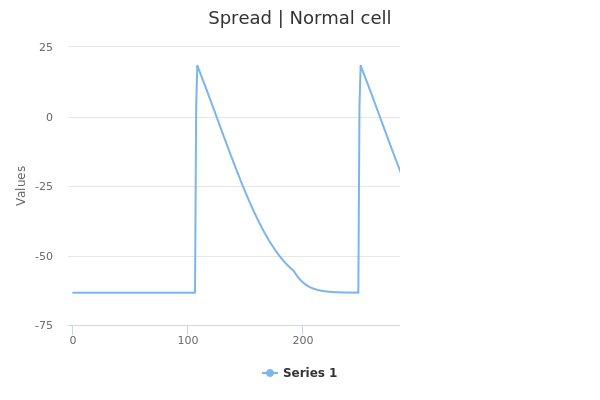
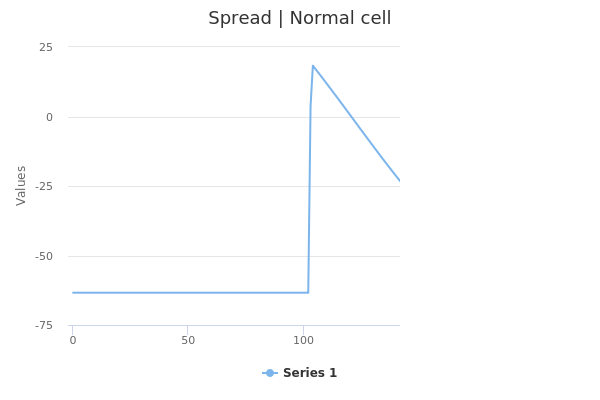
get set server graph on click

diff --git a/dist/index.html b/dist/index.html
@@ -1,136 +1,175 @@
 <!doctype html>
 <html>
-  <head>
-    <title>Getting Started</title>
-    <meta name="viewport" content="width=device-width, initial-scale=1">
-    <link rel="stylesheet" href="https://stackpath.bootstrapcdn.com/bootstrap/4.3.1/css/bootstrap.min.css" integrity="sha384-ggOyR0iXCbMQv3Xipma34MD+dH/1fQ784/j6cY/iJTQUOhcWr7x9JvoRxT2MZw1T" crossorigin="anonymous">
-    <style>
 
-      body{
-        background-color: #EEEEEE;
-        overflow: hidden;
+<head>
+  <title>Getting Started</title>
+  <meta name="viewport" content="width=device-width, initial-scale=1">
+  <link rel="stylesheet" href="https://stackpath.bootstrapcdn.com/bootstrap/4.3.1/css/bootstrap.min.css"
+    integrity="sha384-ggOyR0iXCbMQv3Xipma34MD+dH/1fQ784/j6cY/iJTQUOhcWr7x9JvoRxT2MZw1T" crossorigin="anonymous">
+  <style>
+    body {
+      background-color: #EEEEEE;
+      overflow: hidden;
+    }
+
+    #bottons {
+      position: absolute;
+      left: 3%;
+      top: 90%
+    }
+
+    .card-footer {
+      padding-bottom: 0px;
+    }
+
+    @media (max-width: 500px) {
+      #chart {
+        width: 100%;
       }
 
-      #bottons {
-        position:absolute;
-        left: 3%;
-        top: 90%
+      .card-body {
+        padding: 0rem !important;
       }
-      .card-footer{
-        padding-bottom: 0px;
+
+      .card {
+        width: 95%;
       }
-      @media (max-width: 500px) {
-        #chart{
-          width: 100%;
-        }
+    }
 
-        .card-body {
-          padding: 0rem !important;
-        }
-        .card{
-          width:95%;
-        }
-      } 
-      @media (max-width: 767.98px) { 
-        #cells-btns {
-          padding-top: 10px;
-        }
+    @media (max-width: 767.98px) {
+      #cells-btns {
+        padding-top: 10px;
       }
-    </style>
-  </head>
-  <body>
-    <!-- Image and text -->
-    <nav class="navbar navbar-light" >
-      <a class="navbar-brand" href="#">
-        <img src="https://w0.pngwave.com/png/539/297/graphics-pixel-8-bit-color-8bit-heart-png-clip-art.png" width="50" height="35" class="d-inline-block align-top">
-        Tissiue simulator
-      </a>
-    </nav>
+    }
+  </style>
+</head>
 
-    <div class="container-fluid">
-      <div class="row justify-content-center">
-        <div class="card shadow rounded">
-          <div class="card-body">
-            <div id="chart"></div>
-          </div>
+<body>
+  <!-- Image and text -->
+  <nav class="navbar navbar-light">
+    <a class="navbar-brand" href="#">
+      <img src="https://w0.pngwave.com/png/539/297/graphics-pixel-8-bit-color-8bit-heart-png-clip-art.png" width="50"
+        height="35" class="d-inline-block align-top">
+      Tissiue simulator
+    </a>
+  </nav>
 
-          <div class="card-footer bg-transparent">
+  <div class="container-fluid">
+    <div class="row justify-content-center">
+      <div class="card shadow rounded">
+        <div class="card-body">
+          <div id="chart"></div>
+        </div>
 
-              <div class="row justify-content-between mx-2 mb-2">
-                <div class="col-11">
-                  <button id="play" type="button" class="btn btn-primary pause"> <img src="https://img.icons8.com/material-rounded/24/000000/play.png"/></button>  
-                  <button id="stop" type="button" class="btn btn-danger mr-3 stop"> <img src="https://img.icons8.com/material/24/000000/stop.png"/></button>   
+        <div class="card-footer bg-transparent">
 
-                  <div id="cells-btns" class="btn-group btn-group-toggle" data-toggle="buttons">
-                    <label class="btn btn-warning transform" data-type="Auto" >
-                      <input type="radio" focus active> Auto
-                    </label>
-                    <label class="btn btn-light transform" data-type="Fast">
-                      <input type="radio"> Fast
-                    </label>
-                    <label class="btn btn-dark transform" data-type="Dead">
-                      <input type="radio"> Dead
-                    </label>
-                  </div>  
-                  <button class="btn btn-secondary transform" data-type="Normal"> Eraser </button>
-                </div>
-                <div class="col-1">
-                  <button class="btn btn-secondary"> Eraser </button>
-                </div>
+          <div class="row justify-content-between mr-2 mb-2">
+            <div class="col-11">
+              <button id="play" type="button" class="btn btn-primary pause"> <img
+                  src="https://img.icons8.com/material-rounded/24/000000/play.png" /></button>
+              <button id="stop" type="button" class="btn btn-danger mr-3 stop"> <img
+                  src="https://img.icons8.com/material/24/000000/stop.png" /></button>
 
+              <div id="cells-btns" class="btn-group btn-group-toggle" data-toggle="buttons">
+                <label class="btn btn-warning transform" data-type="Auto">
+                  <input type="radio" focus active> Auto
+                </label>
+                <label class="btn btn-light transform" data-type="Fast">
+                  <input type="radio"> Fast
+                </label>
+                <label class="btn btn-dark transform" data-type="Dead">
+                  <input type="radio"> Dead
+                </label>
               </div>
+              <button class="btn btn-secondary transform" data-type="Normal"> Eraser </button>
+            </div>
+            <div class="col-1">
+              <button id="graph_btn" class="btn btn-secondary"> Graph </button>
+            </div>
+
           </div>
         </div>
       </div>
-      </div>
     </div>
-    <script>
+  </div>
+  </div>
+  <script>
 
-    </script>
-    <!-- Optional JavaScript -->
-    <!-- jQuery first, then Popper.js, then Bootstrap JS -->
-    <script src="https://code.jquery.com/jquery-3.3.1.slim.min.js" integrity="sha384-q8i/X+965DzO0rT7abK41JStQIAqVgRVzpbzo5smXKp4YfRvH+8abtTE1Pi6jizo" crossorigin="anonymous"></script>
-    <script src="https://cdnjs.cloudflare.com/ajax/libs/popper.js/1.14.7/umd/popper.min.js" integrity="sha384-UO2eT0CpHqdSJQ6hJty5KVphtPhzWj9WO1clHTMGa3JDZwrnQq4sF86dIHNDz0W1" crossorigin="anonymous"></script>
-    <script src="https://stackpath.bootstrapcdn.com/bootstrap/4.4.1/js/bootstrap.min.js" integrity="sha384-wfSDF2E50Y2D1uUdj0O3uMBJnjuUD4Ih7YwaYd1iqfktj0Uod8GCExl3Og8ifwB6" crossorigin="anonymous"></script>
-   
-    <script src="main.js"></script>
-    <script>
+  </script>
+  <!-- Optional JavaScript -->
+  <!-- jQuery first, then Popper.js, then Bootstrap JS -->
+  <script src="https://cdnjs.cloudflare.com/ajax/libs/jquery/3.5.1/jquery.min.js"
+    integrity="sha512-bLT0Qm9VnAYZDflyKcBaQ2gg0hSYNQrJ8RilYldYQ1FxQYoCLtUjuuRuZo+fjqhx/qtq/1itJ0C2ejDxltZVFg=="
+    crossorigin="anonymous"></script>
+  <script src="https://cdnjs.cloudflare.com/ajax/libs/popper.js/1.14.7/umd/popper.min.js"
+    integrity="sha384-UO2eT0CpHqdSJQ6hJty5KVphtPhzWj9WO1clHTMGa3JDZwrnQq4sF86dIHNDz0W1"
+    crossorigin="anonymous"></script>
+  <script src="https://stackpath.bootstrapcdn.com/bootstrap/4.4.1/js/bootstrap.min.js"
+    integrity="sha384-wfSDF2E50Y2D1uUdj0O3uMBJnjuUD4Ih7YwaYd1iqfktj0Uod8GCExl3Og8ifwB6"
+    crossorigin="anonymous"></script>
 
-      //Play stop
-      $('#play').on('click', function(e){
-        manage_play(e.currentTarget);
-      })
+  <script src="main.js"></script>
+  <script>
 
-      //Trasformation click
-      $('.transform').on('click', function () {
-        let type =$(this).data('type');
-        window.global.AltCellBtn = type;
-      })
+    //Play stop
+    $('#play').on('click', function (e) {
+      manage_play(e.currentTarget);
+    })
 
-      $('#stop').on('click', function(){
-        window.global.stop = true;
-        let target = $('#play');
+    //Trasformation click
+    $('.transform').on('click', function () {
+      let type = $(this).data('type');
+      window.global.AltCellBtn = type;
+    })
 
-        if($(target).hasClass('play'))
-        { 
-          console.log('play')
-          manage_play(target);
-        }
-      })
+    $('#stop').on('click', function () {
+      window.global.stop = true;
+      let target = $('#play');
 
-      function manage_play(e){
-        window.global.play = (!window.global.play); 
-        if($(e).hasClass('pause'))
-        {
-          $(e).html('<img src="https://img.icons8.com/material-rounded/24/000000/pause.png"/>')
-          $(e).toggleClass('pause play')
-        }
-        else
-        {
-          $(e).html('<img src="https://img.icons8.com/material-rounded/24/000000/play.png"/>')
-          $(e).toggleClass('play pause')
-        }
+      if ($(target).hasClass('play')) {
+        console.log('play')
+        manage_play(target);
       }
-    </script>
-  </body>
+    })
+
+    let graph_clicks = 0;
+    $('#graph_btn').on('click', function () {
+      //send graph second click
+      if (graph_clicks == 1) {
+        var xhr = new XMLHttpRequest();
+        xhr.open('post', 'http://localhost:3000/');
+        xhr.setRequestHeader("Content-Type", "application/json;charset=UTF-8");
+        xhr.send(JSON.stringify(window.global.request_data));
+        // $.post('http://localhost:3000/', { data })
+        console.log('>>>>>>>>>>>>>>> click 2')
+        window.global.record_graph = false;
+
+      }
+      //start recording one click
+      if (graph_clicks == 0) {
+        window.global.record_graph = true;
+        graph_clicks = graph_clicks + 1;
+        console.log('>>>>>>>>>>>>>>> click 1')
+      }
+
+
+    })
+
+
+    function manage_play(e) {
+      window.global.play = (!window.global.play);
+      if ($(e).hasClass('pause')) {
+        $(e).html('<img src="https://img.icons8.com/material-rounded/24/000000/pause.png"/>')
+        $(e).toggleClass('pause play')
+      }
+      else {
+        $(e).html('<img src="https://img.icons8.com/material-rounded/24/000000/play.png"/>')
+        $(e).toggleClass('play pause')
+      }
+    }
+
+
+  </script>
+</body>
+
 </html>

diff --git a/src/index.js b/src/index.js
@@ -6,6 +6,7 @@ window.global = {
   AltCellBtn: 'Auto',
   play: false,
   stop: false,
+  record_graph: false,
   request_data : {
     "name": 'test',
     "data": []
@@ -17,7 +18,7 @@ window.global.cols = calculateCols();
 
 let myp5 = new p5(s, 'chart');
 
-setTimeout(() => { graph() }, 25000);
+// setTimeout(() => { graph() }, 25000);
 
 function calculateRows() { //height
   let cell_to_be_removed; 
@@ -42,11 +43,4 @@ function mobile() {
     return true; 
   }   
   else window.global.size = 15;
-}
-
-function graph(){
-  var xhr = new XMLHttpRequest();
-  xhr.open('post', 'http://localhost:3000/');
-  xhr.setRequestHeader("Content-Type", "application/json;charset=UTF-8");
-  xhr.send(JSON.stringify(window.global.request_data));
 }

diff --git a/server/index.js b/server/index.js
@@ -20,7 +20,7 @@ app.post('/', (req, res) => {
         type: "line"
       },
       title: {
-          text: "Spread | Normal cell"
+        text: "Spread | Normal cell"
       },
       "series": [
         {
@@ -43,6 +43,7 @@ app.post('/', (req, res) => {
     fs.writeFileSync(outputFile, imageb64, "base64", function (err) {
       if (err) console.log(err);
     });
+    res.download(outputFile);
     console.log("Saved image!");
     chartExporter.killPool();
   });

diff --git a/src/sketch/Helper.js b/src/sketch/Helper.js
@@ -28,8 +28,11 @@ export class Helper {
   }
 
   static record_data_for_graph(){
-    if (this.colPosition == 12 && this.rowPosition == 12) {
+    let record = window.global.record_graph;
+    if (this.colPosition == 12 && this.rowPosition == 12 && (record == true)) {
       window.global.request_data.data.push(this.Vm);
+
+      console.log('iam in')
     } 
   }
 }

diff --git a/src/sketch/sketch.js b/src/sketch/sketch.js
@@ -34,7 +34,7 @@ export default( sketch ) => {
 
     tissue.forAll( function() { 
       paint(this);
-
+      
       Helper.record_data_for_graph.call(this)
 
       if (this.isInSide(sketch.mouseX, sketch.mouseY)) {
